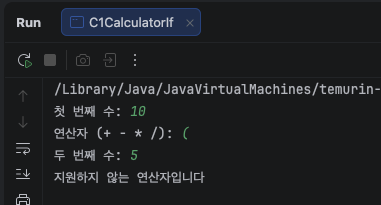
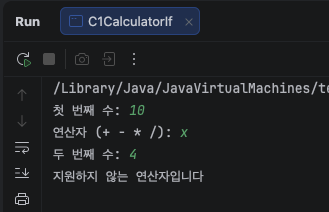
fix: 6주차 과제 피드백 반영

diff --git a/week06/C3RockPaperScissors.java b/week06/C3RockPaperScissors.java
@@ -5,11 +5,11 @@ import java.util.Scanner;
 public class C3RockPaperScissors {
     public static void main(String[] args) {
         // 도전3 가위바위보
+        final int COMPUTER = 2;     // 맨 윗줄. 바위
+
         Scanner sc = new Scanner(System.in);
         System.out.print("가위(1) 바위(2) 보(3) 중 하나: ");
         int user = sc.nextInt();
-
-        final int COMPUTER = 3;
 
         if (user < 1 || user > 3) {
             System.out.println("잘못된 입력입니다");

diff --git a/week06/HW6_6SafeIntInput.java b/week06/HW6_6SafeIntInput.java
@@ -14,5 +14,9 @@ public class HW6_6SafeIntInput {
         } else {
             System.out.println("숫자를 입력하세요");
         }
+        // System.out.println("입력한 나이: " + age);
+        //   java: cannot find symbol  symbol: variable age  (17번째 줄)
+
+        sc.close();
     }
 }

diff --git a/week06/HW6_1TernaryToIf.java b/week06/HW6_1TernaryToIf.java
@@ -5,7 +5,6 @@ import java.util.Scanner;
 public class HW6_1TernaryToIf {
     // 6-1 삼항을 if 로
     public static void main(String[] args) {
-        // 도전 1. 삼항 연산자
         Scanner sc = new Scanner(System.in);
         System.out.print("점수: ");
         int score = sc.nextInt();

diff --git a/week06/README.md b/week06/README.md
@@ -27,7 +27,7 @@ System.out.println(-3 % 2) 실행결과: -1
 number % 2 == 1 조건이 거짓이 되어 짝수로 출력   
 
 **→ 고친 조건을 적으세요.**   
-number % 2 == 0   
+number % 2 != 0   
  
 **→ 4주차 삼항이랑 이번 if 중에 어느 쪽이 읽기 쉬운지 한 줄로.**   
 조건이 하나인 경우 삼항이 한줄로 표현되어 간결하나 분기가 여러개로 늘어나면 if else 사용으로 조건과 결과를 파악하기가 쉬움
@@ -70,14 +70,14 @@ number % 2 == 0
 홀수
 
 점수: 59
-합격
+불합격
 숫자: -4
 짝수
 
 점수: 101
 잘못된 점수입니다 // 과제 내용 없는 조건 임의 추가
 숫자: 0
-짝 
+짝수
 
 ```
 
@@ -254,8 +254,8 @@ if (score >= 90) {
 int는 60이 되고 if는 boolean만 판단 할 수 있어 컴파일 오류 발생.    
 
 **→ ③ 의 메시지는 진짜 원인(elseif 붙여 씀)을 말해주나요? 1주차 세미콜론, 2주차 'abc' 때 한 얘기랑 이어서 한 줄로.**   
-진짜 원일을 알려주지 않음.   
-elseif를 하나의 메서드나 변수로 읽으려고 하는데 없어서 오류 발생.   
+진짜 원인을 알려주지 않음. "없어서"가 아니라 `;` 가 와야 할 자리에 `{` 가 와서 더는 못 읽고 멈춘 것 — elseif 를 메서드 호출로 읽다가 `;` 대신 `{` 를 만나 거기서 막힘.   
+1주차 세미콜론, 2주차 'abc' 랑 같은 종류: 읽다가 막힌 오류는 "막힌 자리"만 말하고 "진짜 원인"은 말해주지 않음.   
 
 ※ 세 개를 아래 표의 어디에 넣을지 정해서 적으세요. 이건 질문입니다. 참고 아닙니다. ㅎㅎ   
 
@@ -369,7 +369,7 @@ if (sc.hasNextInt()) {
 **→ 20, abc, 20.5 를 넣어서 결과를 적으세요. 20.5 는 예상부터.**   
 
 **→ sc.hasNextInt() 가 돌려주는 건 무슨 자료형인가요. 한 줄로. (4-1 다시)**   
-입력값이 int일 경우만 true를 반환
+boolean (입력값이 int일 경우만 true를 반환)
 
 **→ 그 다음, if · else 가 끝난 아래에 이 줄을 추가해서 돌려보세요.**   
 
@@ -440,7 +440,8 @@ java: cannot find symbol
 **조건 4: 10 + 4, 10 / 4, 10 / 0, 10 % 4 네 개를 돌리고 결과를 적을 것.**
 
 **→ 지난주 삼항이랑 이번 if 중에 어느 쪽이 읽기 쉬운지 한 줄로.**   
-"삼항은 10주차 가면 if 로 다시 쓴다" 고 했던 그 비교를 지금 합니다.
+"삼항은 10주차 가면 if 로 다시 쓴다" 고 했던 그 비교를 지금 합니다.   
+if 가 더 읽기 쉬움 — 삼항은 값 하나만 고르는 자리라 "지원하지 않는 연산자입니다" 처럼 대체 출력을 끼울 자리가 없는데, if 는 분기마다 하고 싶은 동작(출력, return 등)을 자유롭게 넣을 수 있음.
 
 ※ 조건 2 는 / 일 때만 필요합니다. if 안에 if 가 들어갑니다. (중첩 if)
 
@@ -455,14 +456,25 @@ java: cannot find symbol
     연산자 (+ - * /): /
     두 번째 수: 0
     0 으로 나눌 수 없습니다
-    
+```
+
+![c-1-1 실행 결과](./images/c-1-1.png)   
+![c-1-2 실행 결과](./images/c-1-2.png)
+
+```
     첫 번째 수: 10
-    연산자 (+ - * /): (
-    두 번째 수: 5
+    연산자 (+ - * /): %
+    두 번째 수: 4
     지원하지 않는 연산자입니다
 
-    ============================
-    
+    첫 번째 수: 10
+    연산자 (+ - * /): x
+    두 번째 수: 4
+    지원하지 않는 연산자입니다
+```
+![c-1-7 실행 결과](./images/c-1-7.png)
+![c-1-3 실행 결과](./images/c-1-3.png)
+``` 
     첫 번째 수: 10
     연산자 (+ - * /): +
     두 번째 수: 4
@@ -477,20 +489,11 @@ java: cannot find symbol
     연산자 (+ - * /): /
     두 번째 수: 0
     0 으로 나눌 수 없습니다
-    
-    첫 번째 수: 10
-    연산자 (+ - * /): %
-    두 번째 수: 4
-    지원하지 않는 연산자입니다
-
 ```
-![c-1-1 실행 결과](./images/c-1-1.png)   
-![c-1-2 실행 결과](./images/c-1-2.png)   
-![c-1-3 실행 결과](./images/c-1-3.png)     
+   
 ![c-1-4 실행 결과](./images/c-1-4.png)      
 ![c-1-5 실행 결과](./images/c-1-5.png)      
-![c-1-6 실행 결과](./images/c-1-6.png)   
-![c-1-7 실행 결과](./images/c-1-7.png)   
+![c-1-6 실행 결과](./images/c-1-6.png)
 ***
 
 ### 도전 2. 윤년을 if 로
